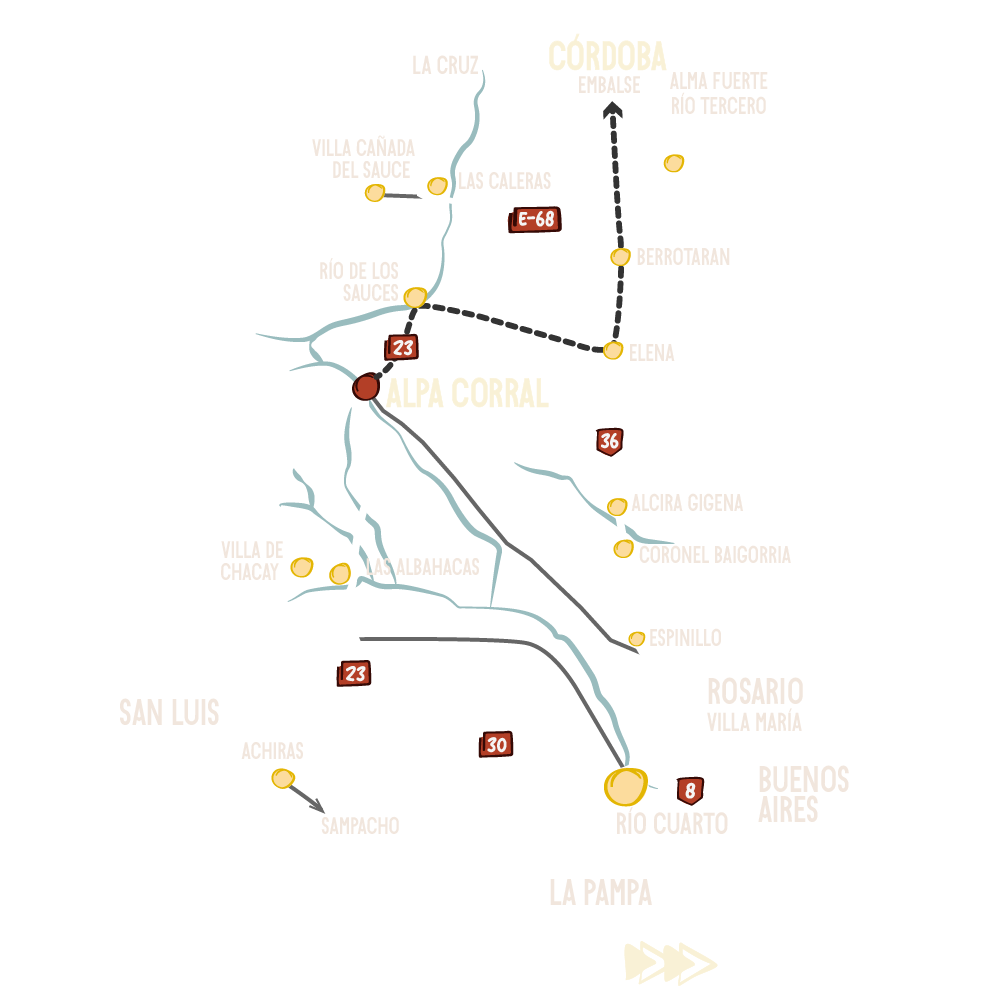
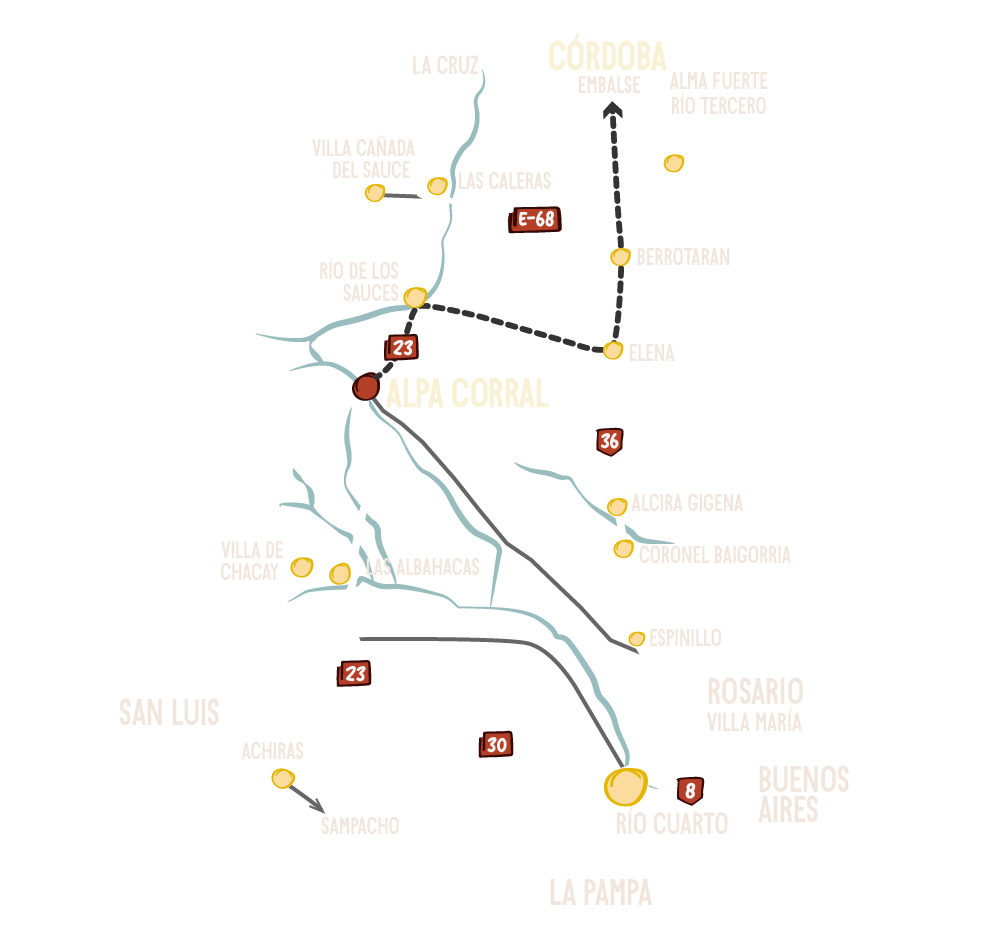
feat: add interactive contact links and refine layout padding across pages

diff --git a/amenities.html b/amenities.html
@@ -118,13 +118,13 @@
             </ul>
 
             <div class="flex flex-col gap-1 2xl:gap-2 text-sm 2xl:text-base font-body mt-auto pt-4">
-                <a href="https://wa.me/5493513265647" target="_blank" rel="noopener noreferrer" class="flex items-center gap-3 hover:opacity-80 transition-opacity">
-                    <i data-lucide="phone" class="w-4 h-4 text-mm-terracotta"></i>
+                <a href="https://wa.me/5493513265647" target="_blank" rel="noopener noreferrer" class="flex items-center gap-3 group hover:opacity-80 transition-opacity">
+                    <i data-lucide="phone" class="w-4 h-4 text-mm-terracotta stroke-[2] group-hover:rotate-12 transition-transform"></i>
                     <span>+549 351 3265647</span>
                 </a>
-                <a href="https://www.instagram.com/modo.monte.alpa" target="_blank" rel="noopener noreferrer" class="flex items-center gap-3 hover:opacity-80 transition-opacity">
-                    <svg xmlns="http://www.w3.org/2000/svg" width="24" height="24" viewBox="0 0 24 24" fill="none" stroke="currentColor" stroke-linecap="round" stroke-linejoin="round" class="w-4 h-4 text-mm-terracotta"><rect width="20" height="20" x="2" y="2" rx="5" ry="5"/><path d="M16 11.37A4 4 0 1 1 12.63 8 4 4 0 0 1 16 11.37z"/><line x1="17.5" x2="17.51" y1="6.5" y2="6.5"/></svg>
-                    <span>modo.monte.alpa</span>
+                <a href="https://www.instagram.com/modo.monte.alpa" target="_blank" rel="noopener noreferrer" class="flex items-center gap-3 group hover:opacity-80 transition-opacity">
+                    <svg xmlns="http://www.w3.org/2000/svg" width="24" height="24" viewBox="0 0 24 24" fill="none" stroke="currentColor" stroke-linecap="round" stroke-linejoin="round" class="w-4 h-4 text-mm-terracotta stroke-[2] group-hover:scale-110 transition-transform"><rect width="20" height="20" x="2" y="2" rx="5" ry="5"/><path d="M16 11.37A4 4 0 1 1 12.63 8 4 4 0 0 1 16 11.37z"/><line x1="17.5" x2="17.51" y1="6.5" y2="6.5"/></svg>
+                    <span>@modo.monte.alpa</span>
                 </a>
             </div>
 

diff --git a/alojamientos.html b/alojamientos.html
@@ -156,14 +156,14 @@
                 CONSULTA PRECIOS<br>Y DISPONIBILIDAD.
             </p>
             <div class="flex flex-col items-end gap-2 text-sm md:text-base font-body">
-                <div class="flex items-center gap-2">
-                    <i data-lucide="phone" class="w-4 h-4"></i>
+                <a href="https://wa.me/5493513265647" target="_blank" rel="noopener noreferrer" class="flex items-center gap-2 group hover:opacity-80 transition-opacity">
+                    <i data-lucide="phone" class="w-4 h-4 stroke-[2] group-hover:rotate-12 transition-transform"></i>
                     <span>+549 351 3265647</span>
-                </div>
-                <div class="flex items-center gap-2">
-                    <svg xmlns="http://www.w3.org/2000/svg" width="24" height="24" viewBox="0 0 24 24" fill="none" stroke="currentColor" stroke-linecap="round" stroke-linejoin="round" class="w-4 h-4"><rect width="20" height="20" x="2" y="2" rx="5" ry="5"/><path d="M16 11.37A4 4 0 1 1 12.63 8 4 4 0 0 1 16 11.37z"/><line x1="17.5" x2="17.51" y1="6.5" y2="6.5"/></svg>
-                    <span>modo.monte.alpa</span>
-                </div>
+                </a>
+                <a href="https://www.instagram.com/modo.monte.alpa" target="_blank" rel="noopener noreferrer" class="flex items-center gap-2 group hover:opacity-80 transition-opacity">
+                    <svg xmlns="http://www.w3.org/2000/svg" width="24" height="24" viewBox="0 0 24 24" fill="none" stroke="currentColor" stroke-linecap="round" stroke-linejoin="round" class="w-4 h-4 stroke-[2] group-hover:scale-110 transition-transform"><rect width="20" height="20" x="2" y="2" rx="5" ry="5"/><path d="M16 11.37A4 4 0 1 1 12.63 8 4 4 0 0 1 16 11.37z"/><line x1="17.5" x2="17.51" y1="6.5" y2="6.5"/></svg>
+                    <span>@modo.monte.alpa</span>
+                </a>
             </div>
         </div>
     </div>

diff --git a/index.html b/index.html
@@ -285,11 +285,11 @@
     <footer class="bg-mm-footer pt-8 pb-10 relative z-10">
         <div
             class="container mx-auto flex flex-col md:flex-row items-center justify-end gap-6 md:gap-12 px-10 text-mm-dark font-body font-semibold text-sm tracking-wide">
-            <div class="flex items-center gap-3 hover:text-mm-brown transition-colors cursor-pointer group">
+            <a href="https://wa.me/5493513265647" target="_blank" rel="noopener noreferrer" class="flex items-center gap-3 hover:text-mm-brown transition-colors cursor-pointer group">
                 <i data-lucide="phone" class="w-5 h-5 stroke-[2] group-hover:rotate-12 transition-transform"></i>
                 <span>+549 351 3265647</span>
-            </div>
-            <div class="flex items-center gap-3 hover:text-mm-brown transition-colors cursor-pointer group">
+            </a>
+            <a href="https://www.instagram.com/modo.monte.alpa" target="_blank" rel="noopener noreferrer" class="flex items-center gap-3 hover:text-mm-brown transition-colors cursor-pointer group">
                 <svg xmlns="http://www.w3.org/2000/svg" width="24" height="24" viewBox="0 0 24 24" fill="none"
                     stroke="currentColor" stroke-linecap="round" stroke-linejoin="round"
                     class="w-5 h-5 stroke-[2] group-hover:scale-110 transition-transform">
@@ -298,7 +298,7 @@
                     <line x1="17.5" x2="17.51" y1="6.5" y2="6.5" />
                 </svg>
                 <span>@modo.monte.alpa</span>
-            </div>
+            </a>
         </div>
     </footer>
 

diff --git a/ubicacion.html b/ubicacion.html
@@ -56,7 +56,7 @@
         <i data-lucide="arrow-left" class="w-6 h-6"></i>
     </a>
 
-    <div class="w-full md:w-1/2 lg:w-[50%] h-auto md:h-screen bg-mm-cream flex flex-col items-center py-8 px-6 md:p-8 lg:px-12 lg:py-4 2xl:p-12 overflow-y-auto transition-opacity duration-300" id="textContent">
+    <div class="w-full md:w-1/2 lg:w-[50%] h-auto md:h-screen bg-mm-cream flex flex-col items-center pt-24 pb-8 px-6 md:pt-28 md:pb-8 md:px-8 lg:px-12 lg:pb-8 lg:pt-24 2xl:p-12 2xl:pt-32 overflow-y-auto transition-opacity duration-300" id="textContent">
         
     </div>
 
